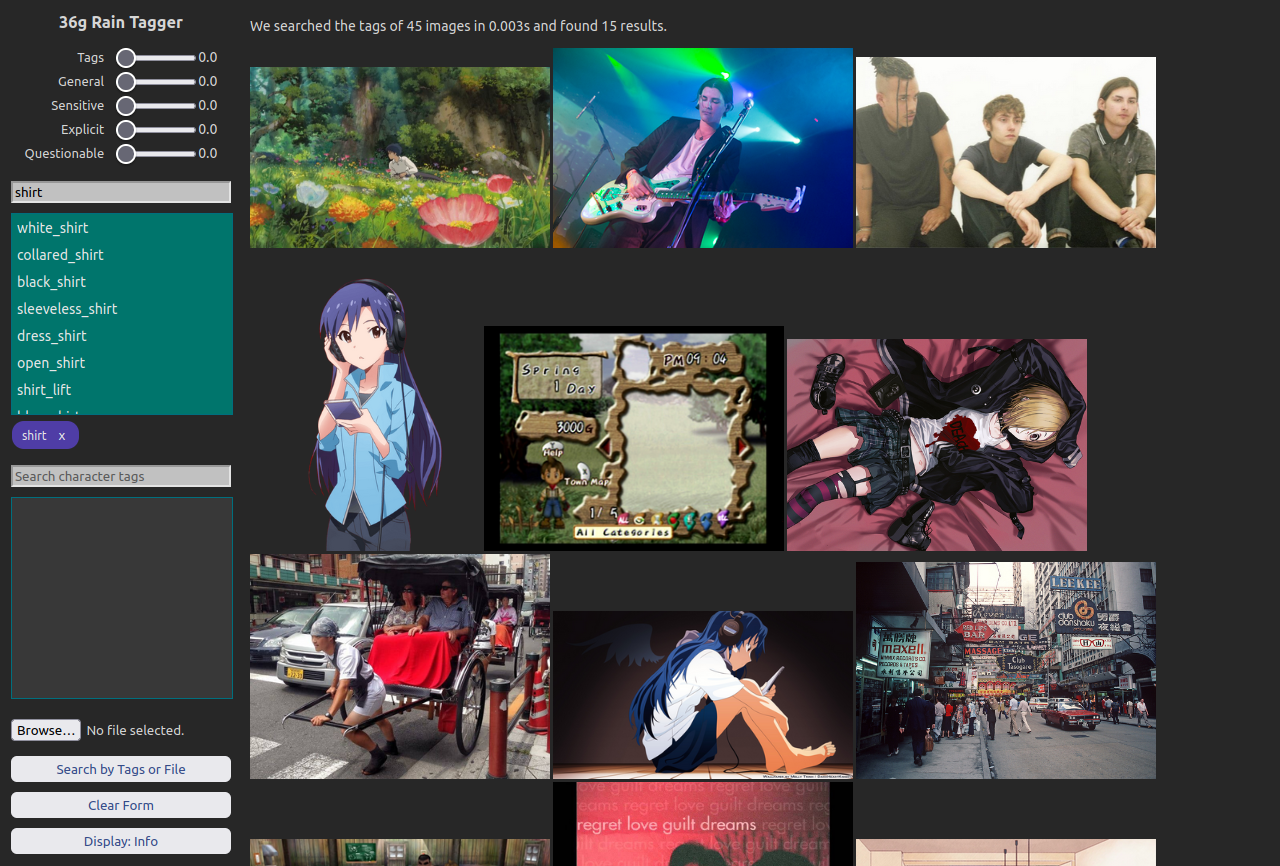
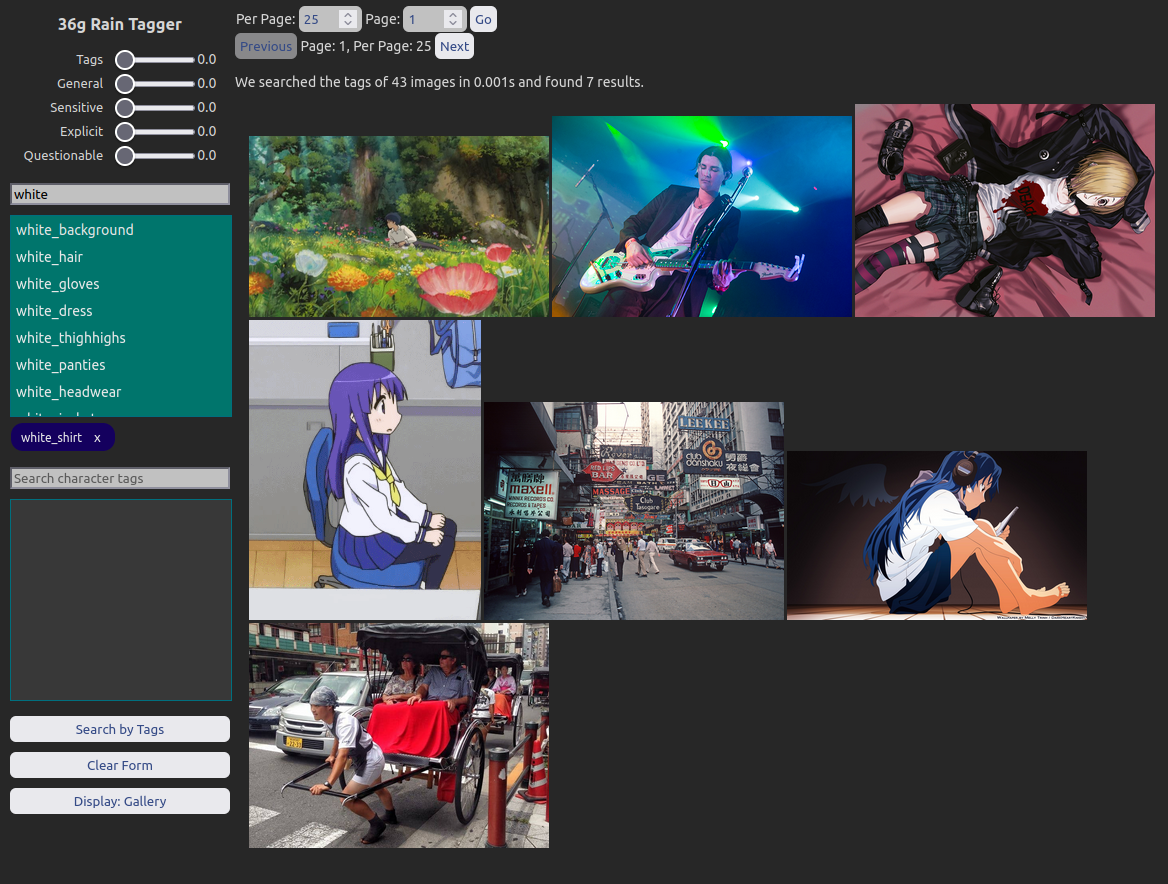
pagination

diff --git a/src/static/index.js b/src/static/index.js
@@ -8,6 +8,7 @@ const selected_character_tags_div = document.getElementById('selected_character_
 const search_button = document.getElementById('search_button');
 const clear_button = document.getElementById('clear_button');
 const results_div = document.getElementById('results');
+const pagination_div = document.getElementById('pagination');
 
 const f_tag = document.getElementById('f_tag');
 const f_general = document.getElementById('f_general');
@@ -21,6 +22,10 @@ const f_sensitive_value = document.getElementById('f_sensitive_value');
 const f_explicit_value = document.getElementById('f_explicit_value');
 const f_questionable_value = document.getElementById('f_questionable_value');
 
+const per_page_input = document.getElementById('per_page_input');
+const page_input = document.getElementById('page_input');
+const go_input = document.getElementById('go_input');
+
 [f_tag, f_general, f_sensitive, f_explicit, f_questionable].forEach(input => {
     input.addEventListener('input', () => {
         document.getElementById(input.id + "_value").textContent = input.value;
@@ -30,6 +35,18 @@ const f_questionable_value = document.getElementById('f_questionable_value');
 let selected_general_tags = [];
 let selected_character_tags = [];
 let all_tags = new Map();
+let current_page = 1;
+let per_page = 25;
+
+per_page_input.addEventListener('input', () => {
+    per_page = parseInt(per_page_input.value) || 25;
+});
+page_input.addEventListener('input', () => {
+    current_page = parseInt(page_input.value) || 1;
+});
+go_input.addEventListener('click', () => {
+    performSearch(true);
+});
 
 async function fetchAllTags() {
     const response = await fetch('/tags');
@@ -117,6 +134,7 @@ function clearAll() {
     document.getElementById('file_tags_character').value = '';
     document.getElementById('file_tags_general').value = '';
     results_div.innerHTML = '';
+    pagination_div.innerHTML = '';
 }
 
 let current_display_mode = "List";
@@ -165,9 +183,27 @@ function renderResults(data) {
         }
     }
     results_div.innerHTML = html;
+
+    pagination_div.innerHTML = `
+        <button id="prev_page" class="flat" ${current_page === 1 ? 'disabled' : ''}>Previous</button>
+        Page: ${current_page}, Per Page: ${per_page}
+        <button id="next_page" class="flat">Next</button>
+    `;
+
+    document.getElementById('prev_page').addEventListener('click', () => {
+        if (current_page > 1) {
+            current_page--;
+            performSearch(true);
+        }
+    });
+
+    document.getElementById('next_page').addEventListener('click', () => {
+        current_page++;
+        performSearch(true);
+    });
 }
 
-async function performSearch() {
+async function performSearch(isPagination = false) {
     const filters = {
         tag: f_tag.value,
         general: f_general.value,
@@ -175,6 +211,8 @@ async function performSearch() {
         explicit: f_explicit.value,
         questionable: f_questionable.value
     };
+
+    if (!isPagination) current_page = 1;
 
     let file = null;
     if (file_input) {
@@ -184,6 +222,8 @@ async function performSearch() {
         const formData = new FormData();
         formData.append('img', file);
         Object.entries(filters).forEach(([k, v]) => formData.append(`f_${k}`, v));
+        formData.append('page', current_page);
+        formData.append('per_page', per_page);
         try {
             const resp = await fetch('/search_w_file', { method: 'POST', body: formData });
             if (!resp.ok) throw new Error(`File search failed: ${resp.status}`);
@@ -197,8 +237,8 @@ async function performSearch() {
         generalIds.forEach(id => params.append('general_tag_ids', id));
         characterIds.forEach(id => params.append('character_tag_ids', id));
         Object.entries(filters).forEach(([k, v]) => params.append(`f_${k}`, v));
-        params.append('page', 0);
-        params.append('per_page', 25);
+        params.append('page', current_page);
+        params.append('per_page', per_page);
         try {
             const resp = await fetch(`/search_w_tags?${params.toString()}`);
             if (!resp.ok) throw new Error(`Tag search failed: ${resp.status}`);
@@ -212,6 +252,6 @@ general_tag_input.addEventListener('focus', () => handleTagInput(general_tag_inp
 character_tag_input.addEventListener('input', () => handleTagInput(character_tag_input, character_tag_suggestions, 4));
 character_tag_input.addEventListener('focus', () => handleTagInput(character_tag_input, character_tag_suggestions, 4));
 clear_button.addEventListener('click', clearAll);
-search_button.addEventListener('click', performSearch);
+search_button.addEventListener('click', () => performSearch(false));
 
 fetchAllTags();

diff --git a/src/templates/index.html b/src/templates/index.html
@@ -10,7 +10,7 @@
 <body>
     <div class="row">
     <div class="container">
-        <h3 class="center">36g Rain Tagger</h3>
+        <h3 class="center"><a href="https://github.com/skwzrd/36g-Rain-Tagger" style="color: inherit;">36g Rain Tagger</a></h3>
         <div class="filters">
             <label for="f_tag"><span>Tags</span><input type="range" id="f_tag" value="0.0" min="0" max="1" step="0.1"><output id="f_tag_value">0.0</output></label>
             <label for="f_general"><span>General</span><input type="range" id="f_general" value="0.0" min="0" max="1" step="0.1"><output id="f_general_value">0.0</output></label>
@@ -23,12 +23,12 @@
         <input id="file_tags_character" maxlength="100" minlength="0" name="file_tags_character" style="display: none;" type="text" value="">
 
         <div class="search">
-            <input id="general_tag_input" type="text" placeholder="Search general tags">
+            <input id="general_tag_input" type="text" autocomplete="off" placeholder="Search general tags">
             <div id="general_tag_suggestions"></div>
             <div id="selected_general_tags"></div>
         </div>
         <div class="search">
-            <input id="character_tag_input" type="text" placeholder="Search character tags">
+            <input id="character_tag_input" type="text" autocomplete="off" placeholder="Search character tags">
             <div id="character_tag_suggestions"></div>
             <div id="selected_character_tags"></div>
         </div>
@@ -44,7 +44,15 @@
         <button id="display_button" class="flat">Display: Gallery</button>
 
     </div>
-    <div id="results"></div>
+    <div>
+        <div style="padding: 1px;">
+            <label for='per_page_input'>Per Page: </label><input class="flat" type='number' min='0' name='per_page_input' id='per_page_input' value='25'>
+            <label for='page_input'>Page: </label><input class="flat" type='number' min='0' name='page_input' id='page_input' value='1'>
+            <button id="go_input" class="flat">Go</button>
+        </div>
+        <div id="pagination"></div>
+        <div id="results"></div>
+    </div>
     </div>
 
     <script src="/static/index.js"></script>

diff --git a/src/static/index.css b/src/static/index.css
@@ -62,6 +62,11 @@ input[type=text]{
     background-color: #c1c1c1;
 }
 
+input[type=number]{
+    width: 4em;
+    background-color: #c1c1c1;
+}
+
 .search {
     display: flex;
     flex-direction: column;

diff --git a/src/web.py b/src/web.py
@@ -109,8 +109,8 @@ def search_w_file():
 @bp.route('/search_w_tags', methods=['GET'])
 def search_w_tags():
     filters = {k: clamp(request.args.get(k, type=float), 0.0, 0.0, 1.0) for k in get_filters()}
-    page = clamp(request.args.get('page', type=int), 0, 0, 10)
-    per_page = clamp(request.args.get('per_page', type=int), 25, 0, 25)
+    page = clamp(request.args.get('page', type=int), 0, 0, 1_000)
+    per_page = clamp(request.args.get('per_page', type=int), 25, 0, 1_000)
 
     general_tag_ids = request.args.getlist('general_tag_ids', type=int)
     character_tag_ids = request.args.getlist('character_tag_ids', type=int)

diff --git a/README.md b/README.md
@@ -52,9 +52,6 @@ The web ui is run with `python3.12 web.py` and the tagger is run with `python3.1
 
 ### Tagging
 
-Benchmarked using [https://github.com/sky-cake/image_data_set](https://github.com/sky-cake/image_data_set)
-
-
 | Device         |   Images   | Total Time (s) | Time per Image (s) |
 |----------------|:----------:|---------------:|-------------------:|
 | 4060 TI 16GB GPU    |     45     |          2.172 |              0.048 |
